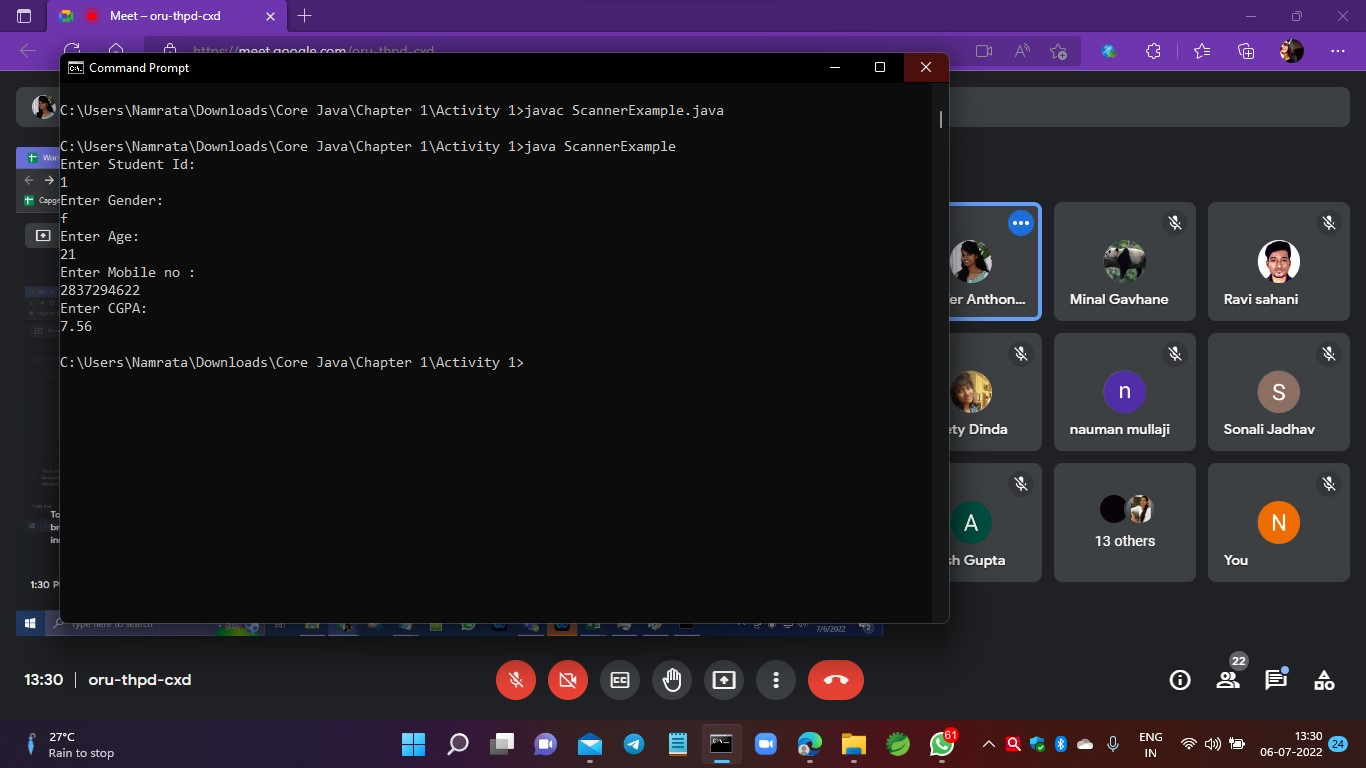
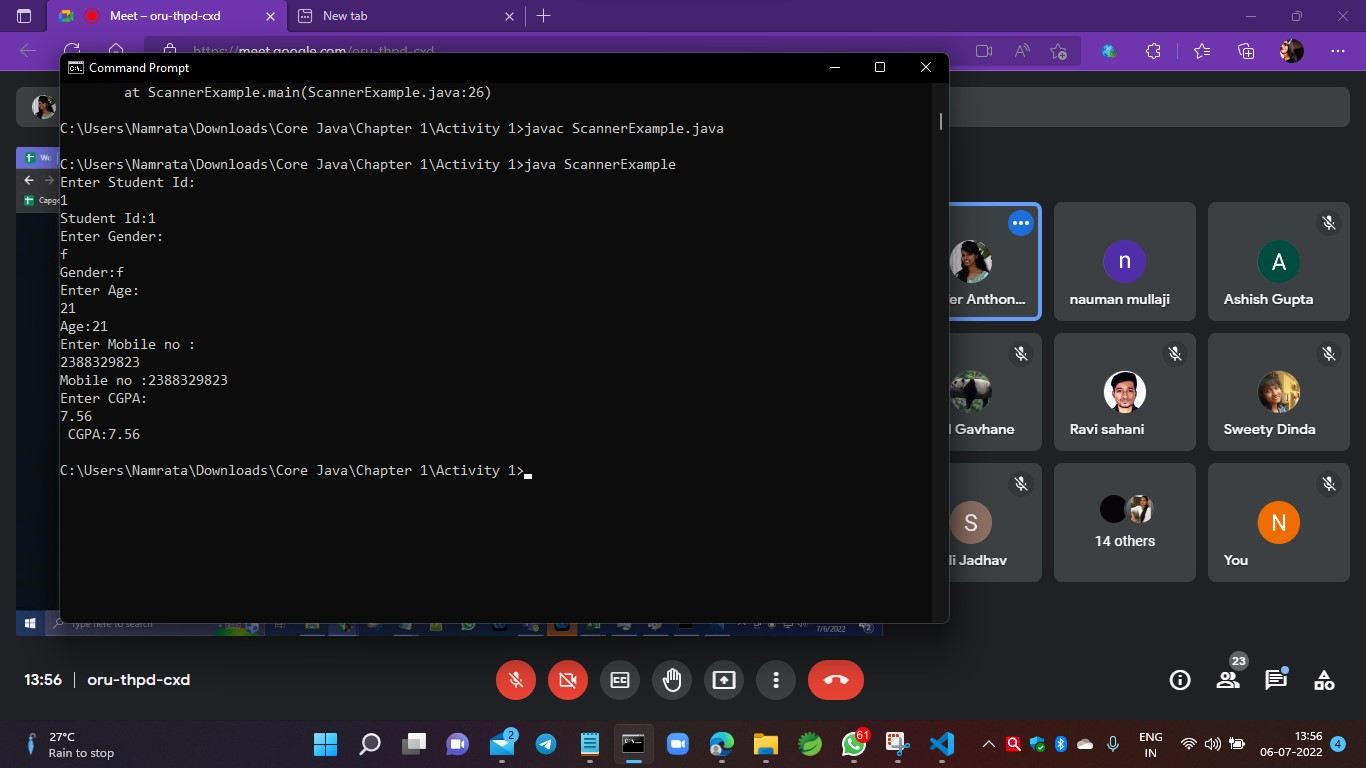
Add files via upload
ScannerExample program

diff --git a/ScannerExample.java b/ScannerExample.java
@@ -16,19 +16,24 @@ class ScannerExample
 
 			System.out.println("Enter Student Id:");
 			id=sc.nextInt();
+			System.out.println("Student Id:" +id);
 
 			System.out.println("Enter Gender:" );
 			gender=sc.next().charAt(0);
+			System.out.println("Gender:" +gender);
 
 			System.out.println("Enter Age:");
 			age=sc.nextByte();
+			System.out.println("Age:" +age);
 
 
 			System.out.println("Enter Mobile no :" );
 			mobileno=sc.nextLong();
+			System.out.println("Mobile no :" +mobileno);
 
 			System.out.println("Enter CGPA:" );
 			cgpa=sc.nextFloat();
+			System.out.println(" CGPA:" +cgpa);
 
 
 
